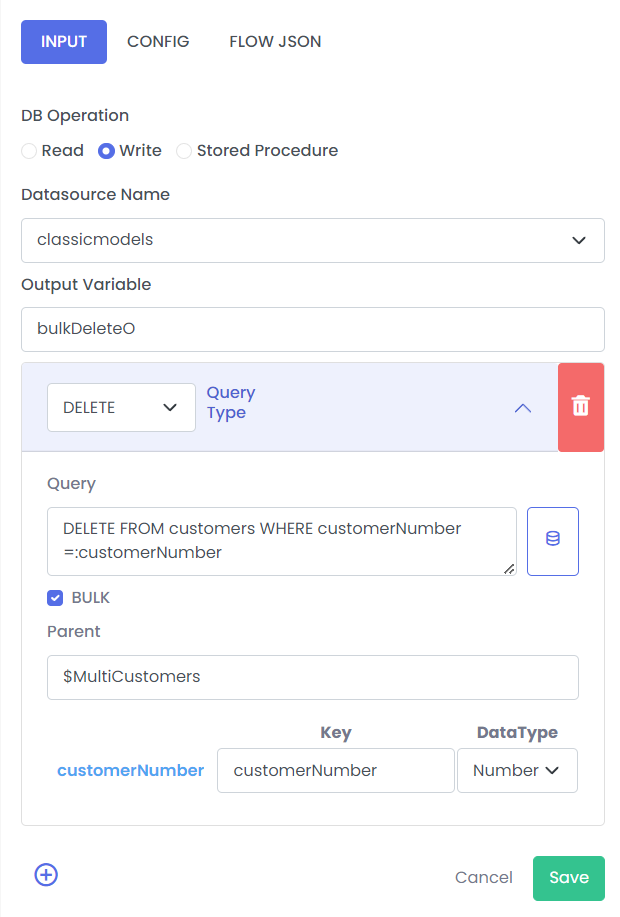
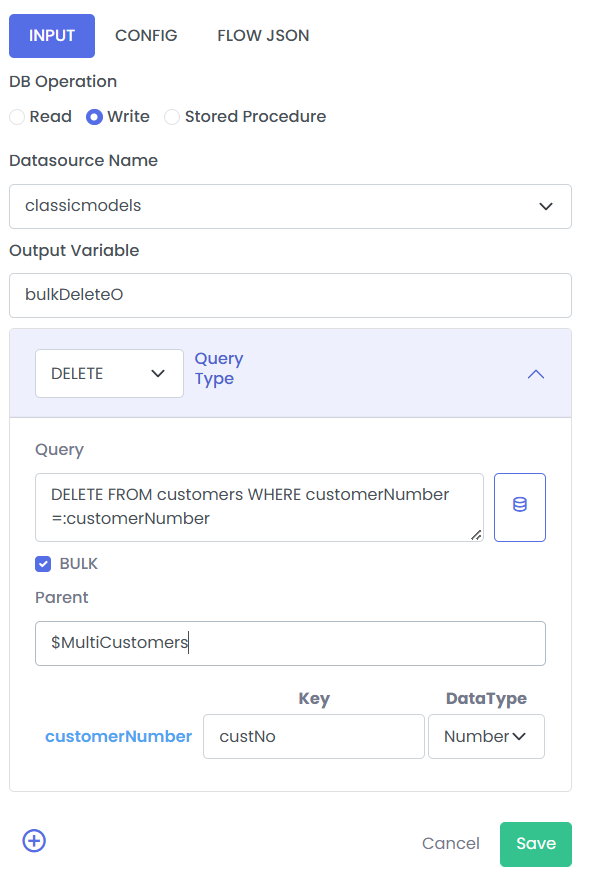
Updated for skipNull and Bulk

diff --git a/docs/Core Development/Connectors/DB.md b/docs/Core Development/Connectors/DB.md
@@ -5,6 +5,7 @@ sidebar_label: "DB"
 ---
 
 import { Image, Video } from '@site/src/components/custom';
+import CodeBlock from '@theme/CodeBlock';
 
 # Database Connector
 
@@ -139,18 +140,45 @@ The following shows a insert operation usage without checking:
 
 If *skipNull* is checked then it update the query on runtime and remove all the values from query for fields that contain `NULL` values.
 
+<Image cls="border" src="/img/Core Development/Connectors/DB/skipNullCheck.png"/>
+
+If there are any 'null' values while performing this query, those fields will be removed from the query execution. This helps best while performing update operation, where data loss can be avoided for previous record for important columns.
+
 :::note
     This works only in case of normal write operation and not in bulk. 
 :::
 
-#### 3. Bulk Delete
+#### 3. Bulk Operations
 
 Let's explore how to compose a delete query.
-1. Choose the query type as **Delete** from the dropdown list.
+1. Choose the query type as **Delete** from the dropdown list. `(Note: You can do similar for insert/update)`
 2. Check the bulk operation to delete multiple records using a single query
 3. Specify the fields for the delete condition. 
+4. Check the **Bulk** checkbox below the query textbox. This specifies that we want to execute the query for bulk records.
+5. Now we will see the **Parent** textbox. Here we specify the list from the pipeline. eg. $MultiCustomers, which is the list of customers that we are fetching from the pipeline. `(Note: Needs to be java list object.)` This list will contain map of customer.
+6. Now that we got the list, we will do keys mapping. In the key section we specify the key we will get from the map object of the list metion in the **Parent**.
+7. Finally we will give the output name, which will contain the array of `0's` and `1's`.
+
+
+#### Example of MultiCustomers
+<CodeBlock className="language-json">
+    {JSON.stringify(
+            {
+                MultiCustomers: [
+                    { custNo: 1, custName: "Alice Johnson", custMobile: "1234567890" },
+                    { custNo: 2, custName: "Bob Smith", custMobile: "9876543210" }
+                ]
+            }, 
+            null, 
+            2
+    )}
+</CodeBlock>
+The above done config would like the image below.
 
 <Image cls="border mb-2" src="/img/Core Development/Connectors/DB/bulkDelete.png" />
+
+Here we gave the query for deleting the customer from `customers` table, for customerNumber. This will be bulk delete as we selected the query type **DELETE** and checked the **Bulk**. We also gave the **Parent**, ***$MultiCustomers***, which is list of customers and we got this from the pipeline. After we mapped the `customerNumber` with the `custNo` we get from the each object from the list. We can also set which datatype the value will be.
+This will delete all the customers from the table for the custNo in a single query execution. 
 
 <table>
     <thead>
@@ -179,12 +207,12 @@ Let's explore how to compose a delete query.
         </tr>
         <tr>
             <td>Output Variable</td>
-            <td>Stores output of connections operations</td>
+            <td>Stores output of query operations</td>
             <td>bulkDeleteO</td>
         </tr>
         <tr>
             <td>Parent</td>
-            <td>Defined by Using $ key word</td>
+            <td>Defined by Using $ key word, followed by the varibale name in the pipeline. Contains the list of map objects from the pipeline.</td>
             <td>$MultiCustomers</td>
         </tr>
         <tr>
@@ -193,8 +221,27 @@ Let's explore how to compose a delete query.
                 <a href="/Core Development/Property Config/Connection Properties/gradle-dependencies" target="_blank"> Please refer the link for instructions on adding dependencies</a></td>
             <td>com.mysql:mysql-connector-j:9.0.0</td>
         </tr>
+        <tr>
+            <td>Target</td>
+            <td>The target to be mapped on the query.</td>
+            <td>customerNumber</td>
+        </tr>
+        <tr>
+            <td>Key</td>
+            <td>The key to be retrieved from the map object from the list.</td>
+            <td>custNo</td>
+        </tr>
+        <tr>
+            <td>Data Type</td>
+            <td>The type of value data for the key.</td>
+            <td>Number</td>
+        </tr>
     </tbody>
 </table>
+
+:::note
+    While **Bulk** is checked, we cant use the **skipNull**.
+:::
 
 ### Stored Procedure Operation
 
